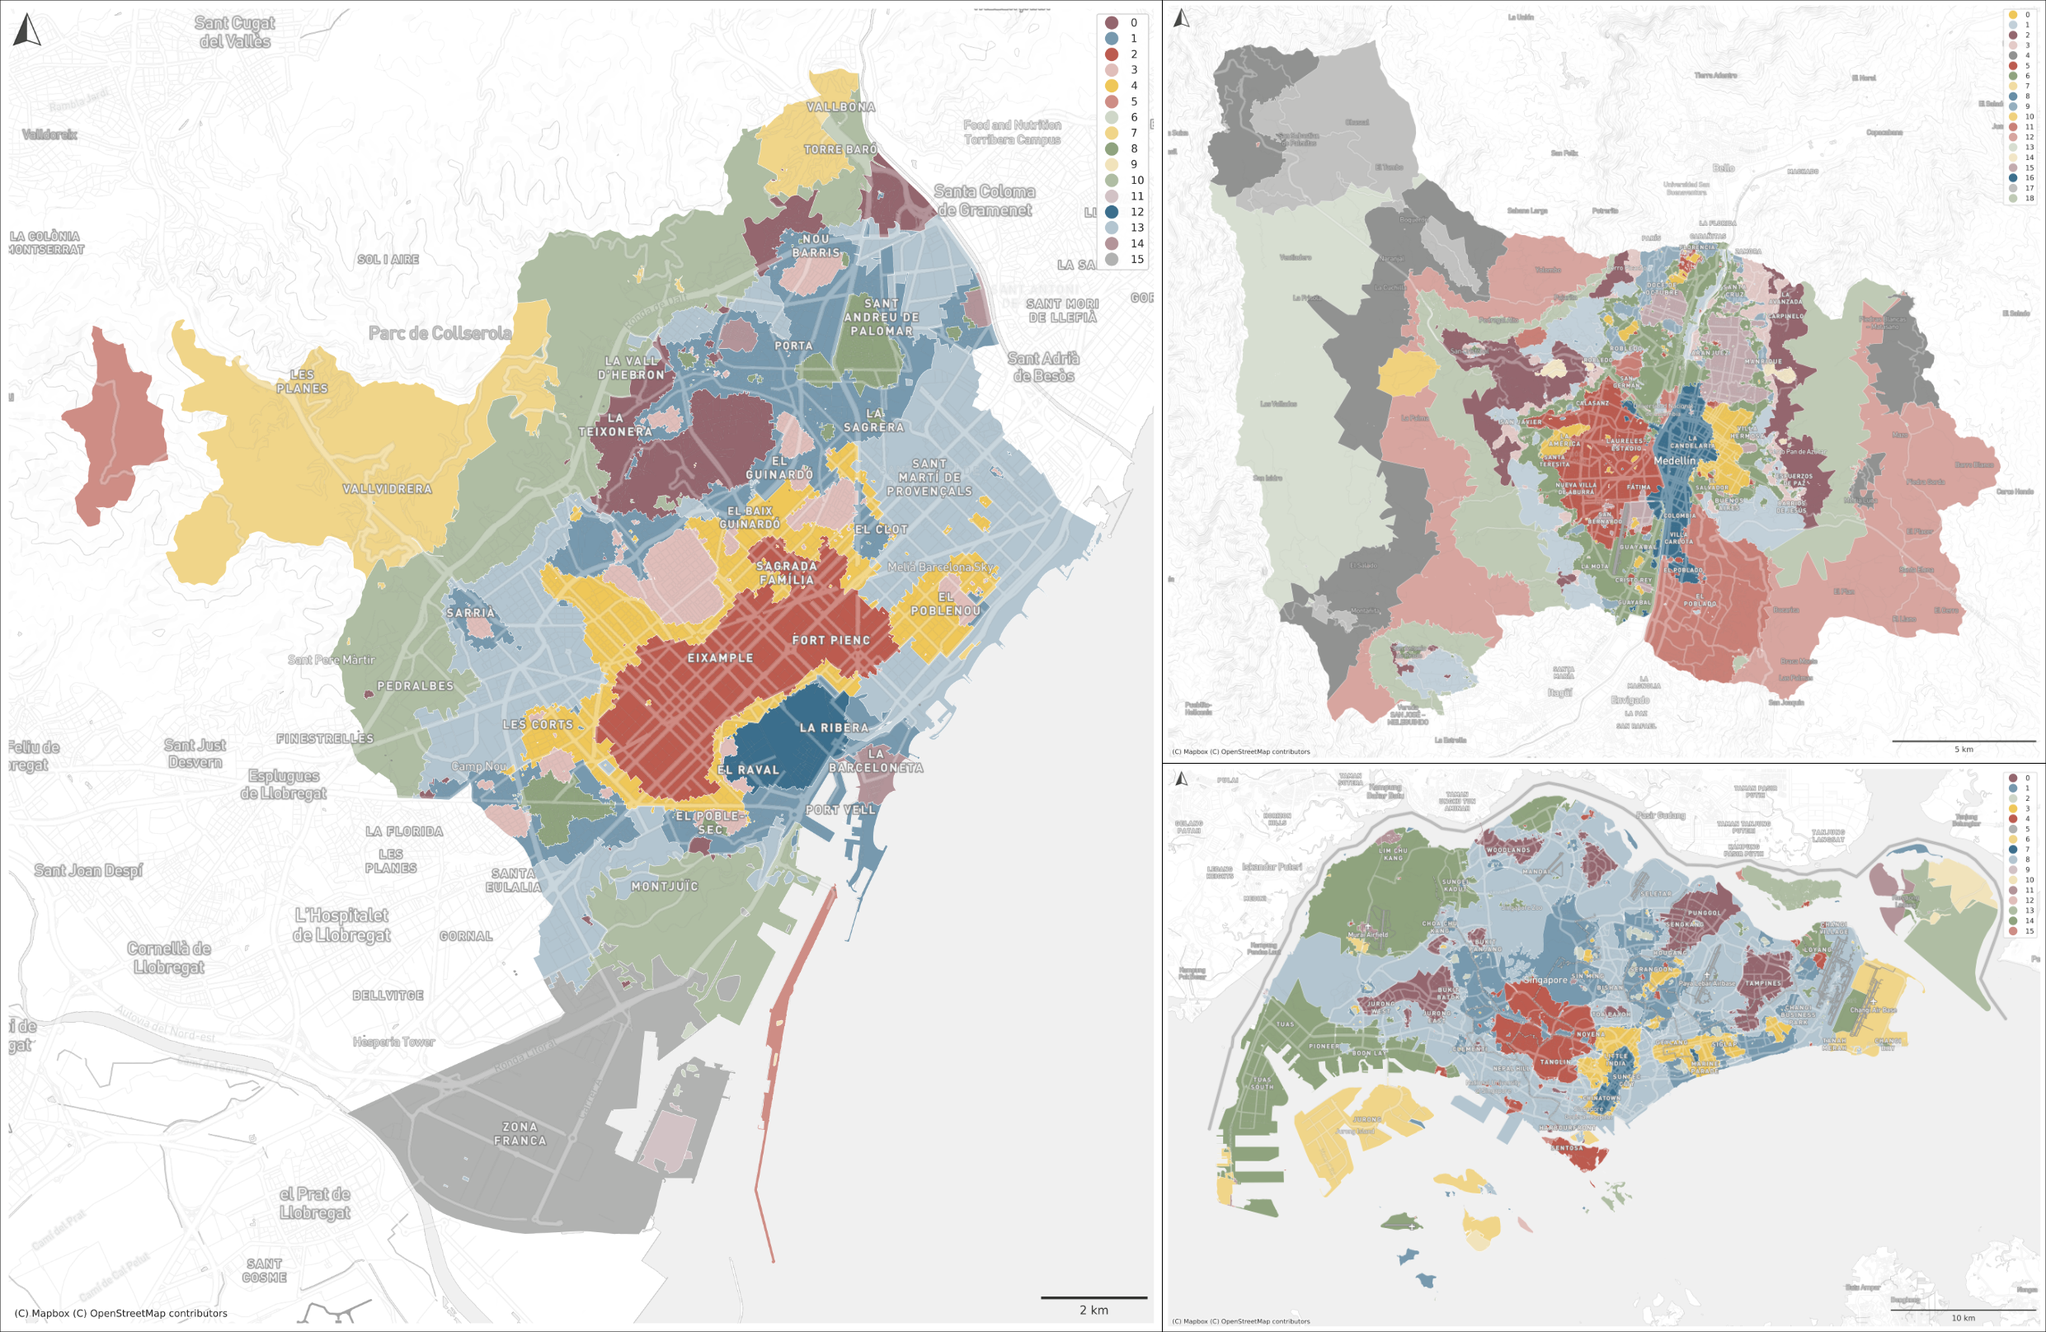
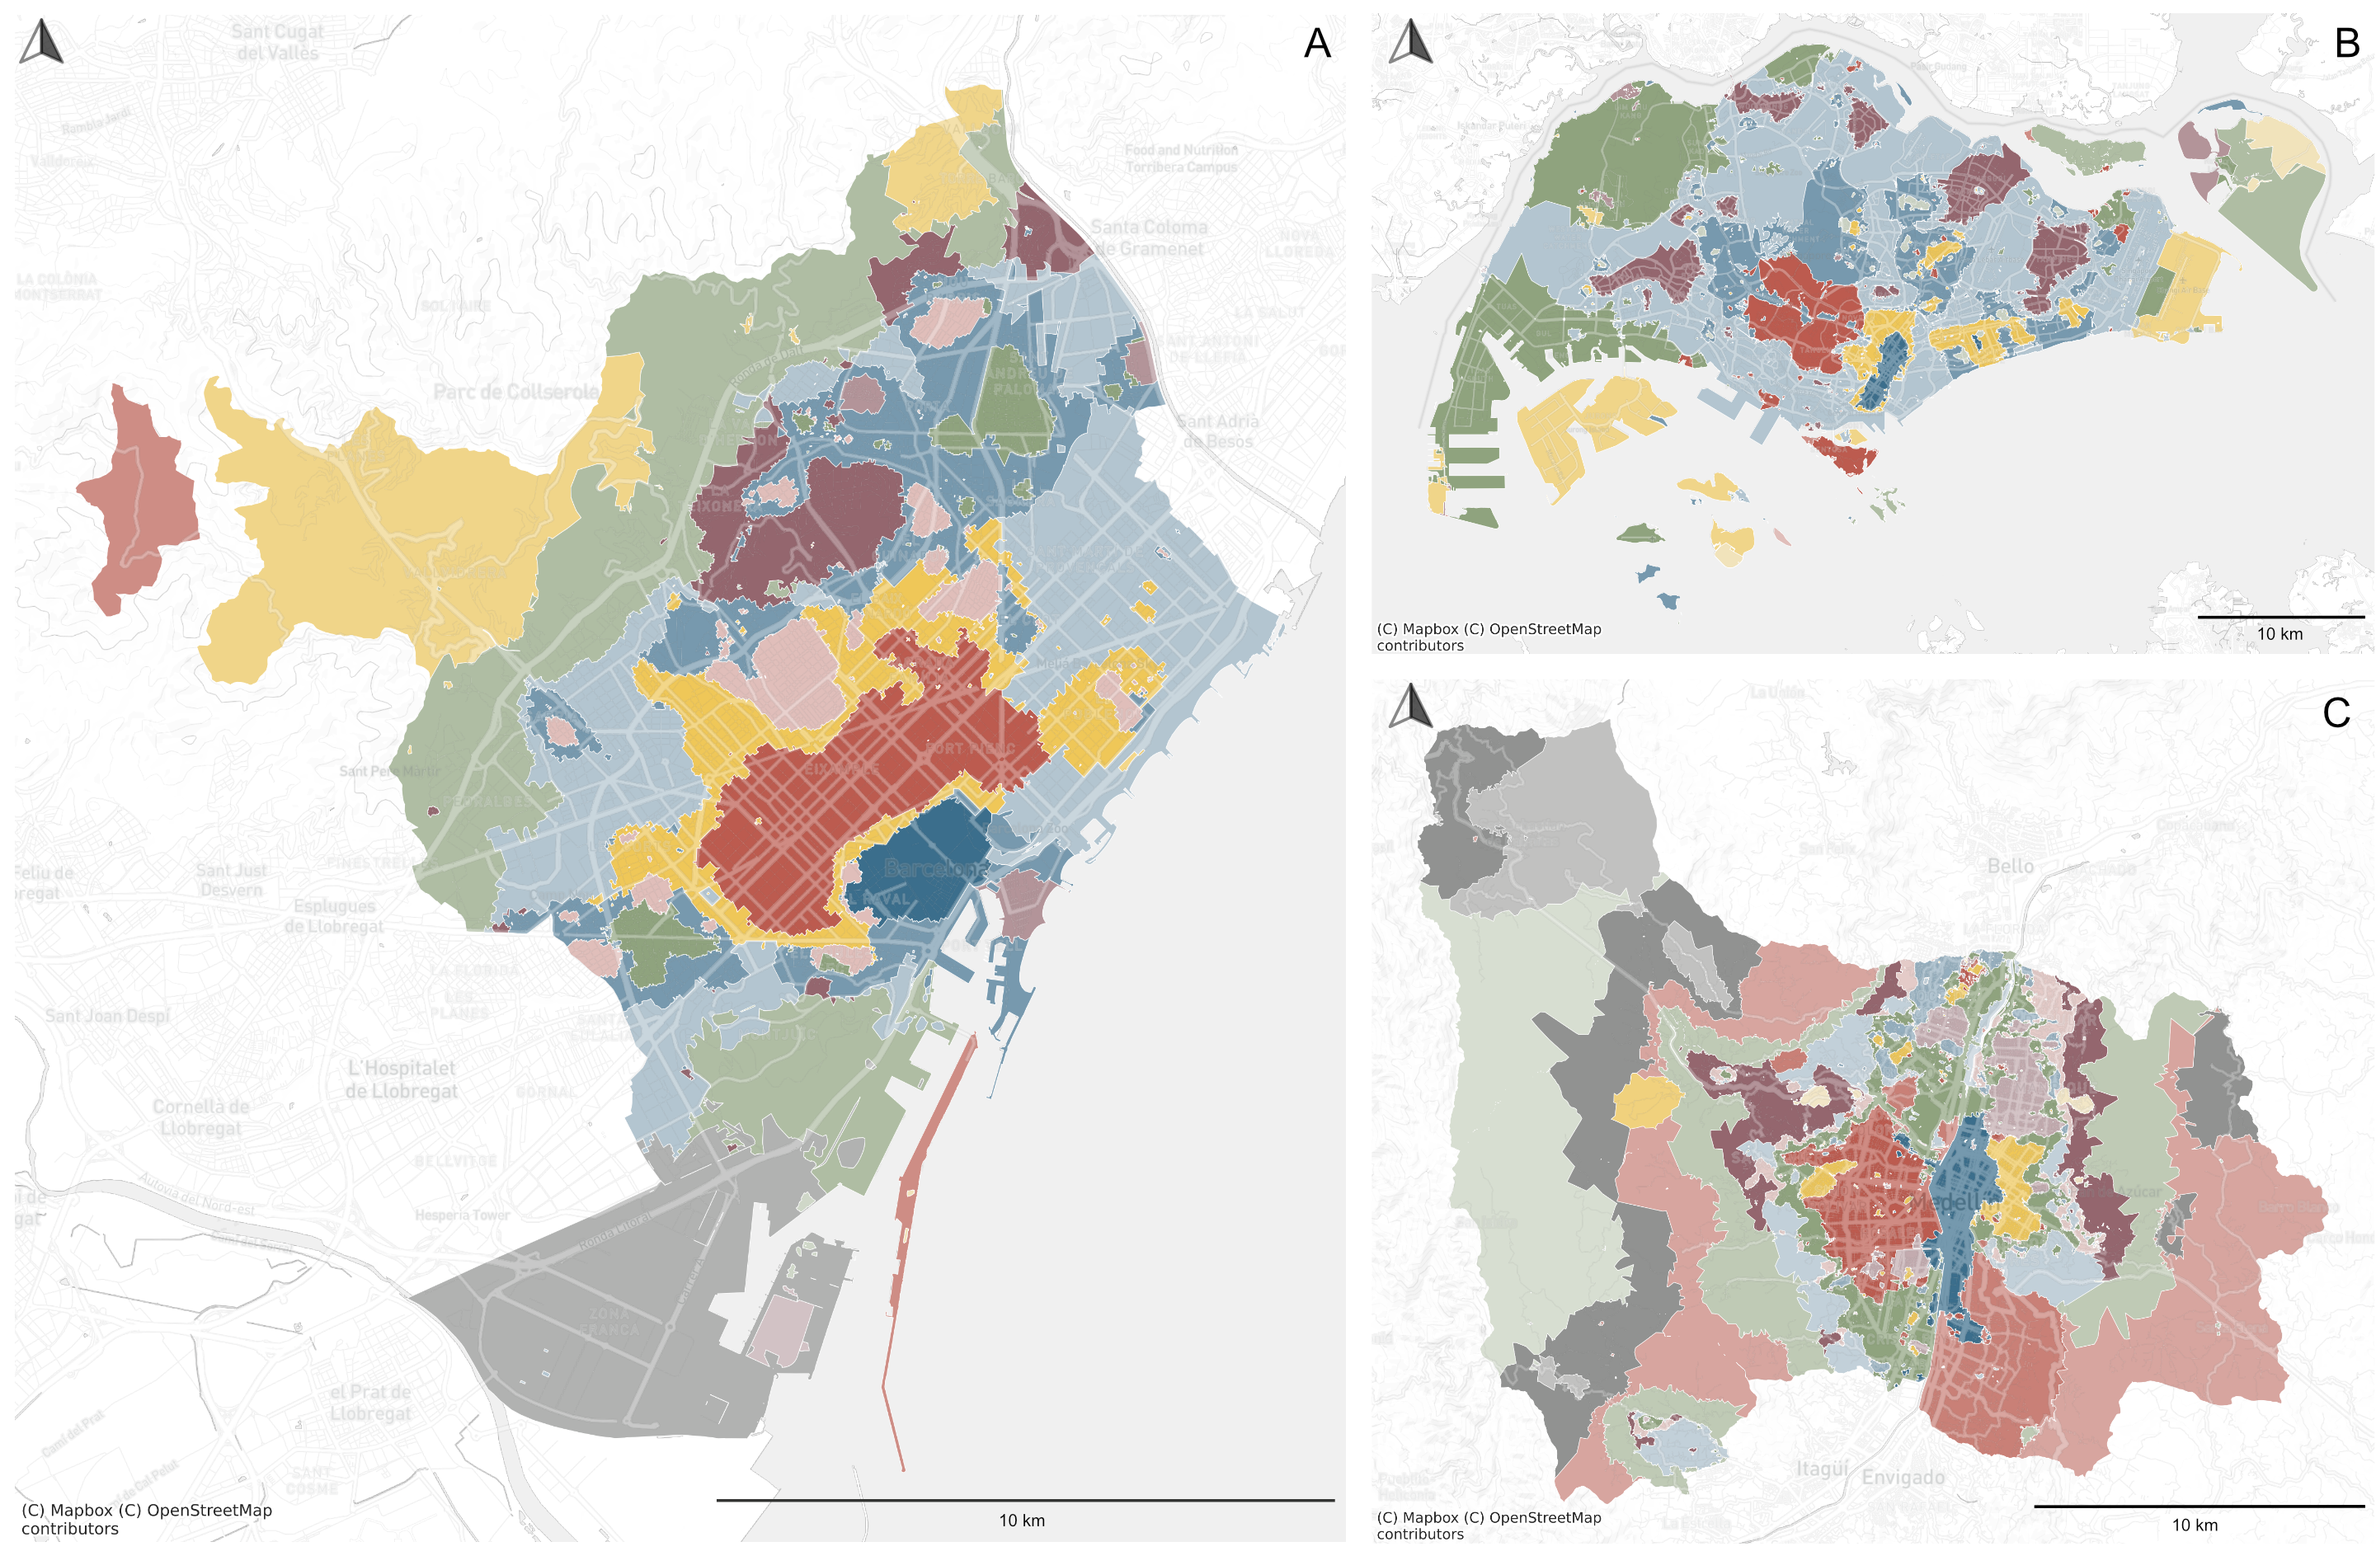
better images

diff --git a/paper/ss_4.tex b/paper/ss_4.tex
@@ -119,8 +119,8 @@ not printed at the same scale.
 
 \begin{figure}
     \includegraphics[width=\linewidth]{figures/maps1.png}
-    \caption{TEMPORARY MAP, NEED TO RE-RENDER TO HAVE ALL ELEMENTS AT THE SAME SIZE.
-    Resulting Spatial Signatures in the case of Barcelona (A), Medellin (B) and Singapore (C).}
+    \caption{Resulting Spatial Signatures in the case of Barcelona (A), Singapore (B)
+    and Medellin (C). Colours are used to distinguish between types within a single case.}
     \label{fig:maps1}
 \end{figure}
 
@@ -170,8 +170,8 @@ the topography does not allow further development.
 
 \begin{figure}
     \includegraphics[width=\linewidth]{figures/maps2.png}
-    \caption{TEMPORARY MAP, NEED TO RE-RENDER TO HAVE ALL ELEMENTS AT THE SAME SIZE.
-    Resulting Spatial Signatures in the case of Houston (A) and Dar es Salaam (B).}
+    \caption{Resulting Spatial Signatures in the case of Dar es Salaam (A) and Houston (B).
+    Colours are used to distinguish between types within a single case.}
     \label{fig:maps2}
 \end{figure}
 
